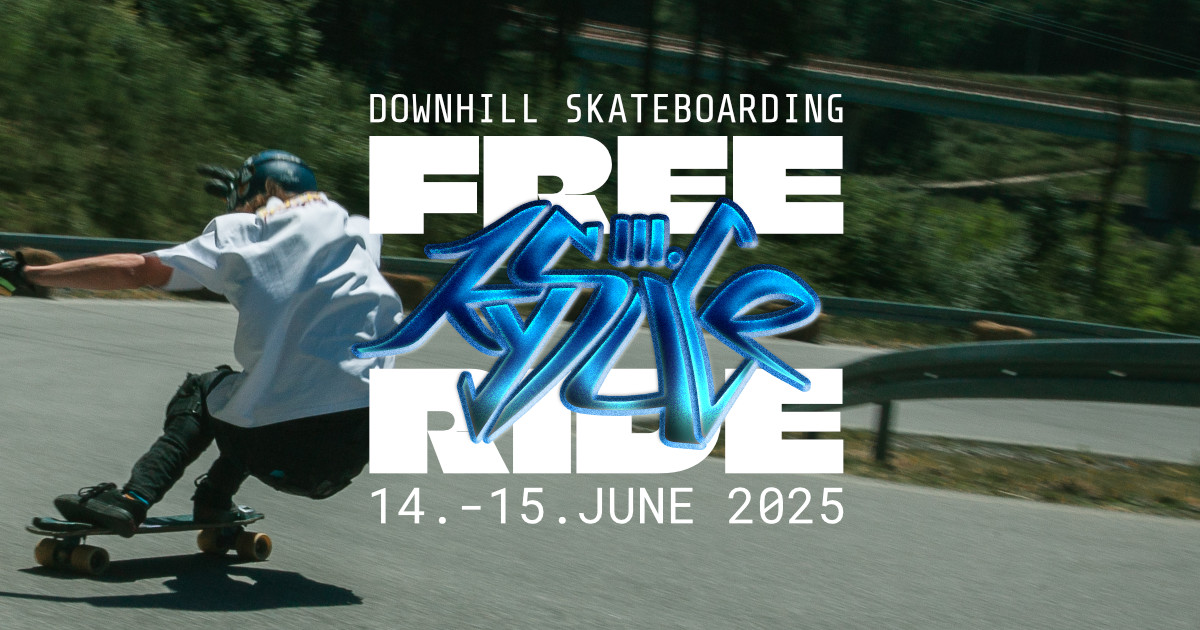
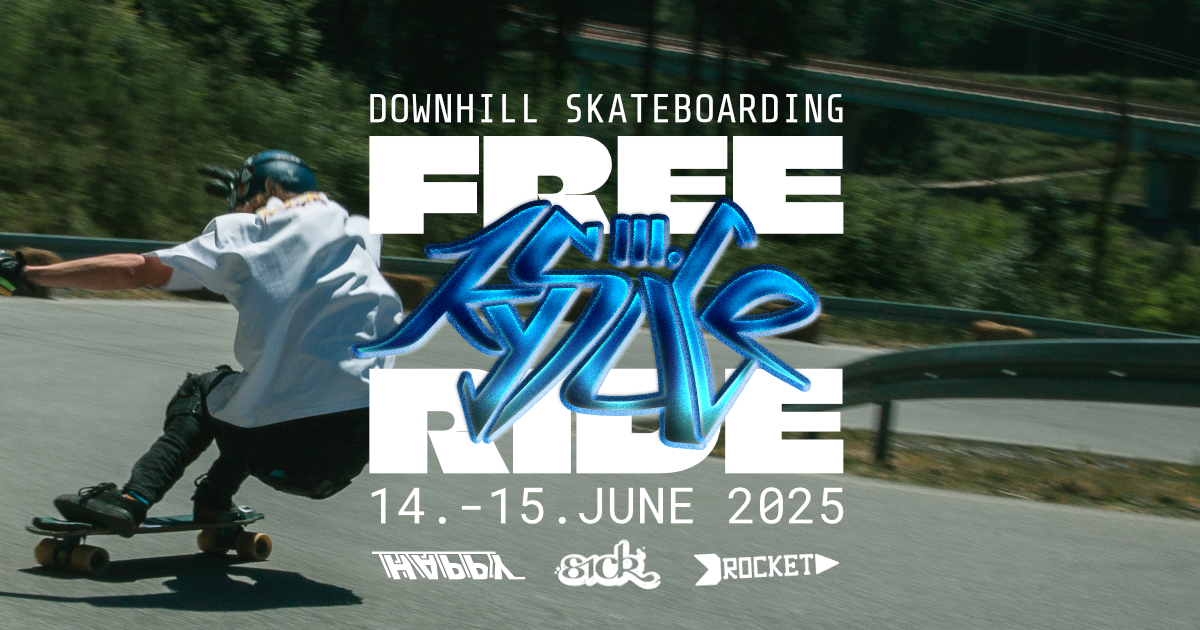
feat: added sponsors and instagram link

Changed region(s): [[0.3083, 0.8746, 0.4317, 0.9349], [0.5858, 0.8746, 0.7092, 0.9349], [0.4625, 0.8444, 0.555, 0.9349]]

diff --git a/app/page.tsx b/app/page.tsx
@@ -17,7 +17,9 @@ interface Dictionary {
     rider: string;
     photoBy: string;
   },
-  info: string
+  info: string;
+  follow: string;
+  sponsors: string;
 }
 
 const dictionaries = {
@@ -89,11 +91,50 @@ export default function Home() {
               className={styles.heroSideImage}
             />
           </div>
-          <div className={styles.heroText}>
+          <div className={`${styles.heroText} ${styles.uniformWidth} ${styles.text1}`}>
             <div>{dictionary.date}</div>
             <div>{dictionary.location.village}</div>
             <div>{dictionary.location.country}</div>
-            <div>{'_'}{dictionary.info}</div>
+            <div className={styles.text2}>{'_'}{dictionary.info}</div>
+            <div className={styles.text2}>{'_'}{dictionary.follow}{`: `}
+              <Link href="https://www.instagram.com/kysucedownhill/" target="_blank" className={styles.riderLink}>instagram</Link>
+            </div>
+          </div>
+        </div>
+        <div className={`${styles.sponsorsContainer}`}>
+          <div className={`${styles.sponsorsText} ${styles.uniformWidth} ${styles.text2}`}>
+            {`_`}
+            {dictionary.sponsors}
+            {`:`}
+          </div>
+          <div className={`${styles.sponsorsImageContainer} ${styles.uniformWidth}`}>
+            <Link href="https://www.instagram.com/happy_board_co/" target="_blank">
+              <Image
+                src="/sponsor-happy.png"
+                alt="Sponsor Happy Board co."
+                width={510}
+                height={168}
+                className={styles.sponsorsImage}
+              />
+            </Link>
+            <Link href="https://rocketlongboards.ch/" target="_blank">
+              <Image
+                src="/sponsor-rocket.png"
+                alt="Sponsor Rocket Longboards"
+                width={510}
+                height={168}
+                className={styles.sponsorsImage}
+              />
+            </Link>
+            <Link href="https://www.sickboards.nl/" target="_blank">
+              <Image
+                src="/sponsor-sick.png"
+                alt="Sponsor Sick Boards"
+                width={510}
+                height={168}
+                className={styles.sponsorsImage}
+              />
+            </Link>
           </div>
         </div>
         <div className={styles.riderImageContainer}>

diff --git a/app/page.module.css b/app/page.module.css
@@ -1,7 +1,46 @@
 /* Base styles */
+
+.text1 {
+  font-size: 3rem;
+}
+
+.text2 {
+  font-size: 2rem;
+}
+
 .container {
   position: relative;
   /* min-height: 100vh; */
+}
+
+.uniformWidth {
+  /* Using this to accurately align the text under the FREERIDE logo */
+  width: calc(650px * 810/650);
+}
+
+.sponsorsContainer {
+  display: flex;
+  flex-direction: column;
+  align-items: center;
+  margin-bottom: 1rem;
+}
+
+.sponsorsText {
+  font-size: 2rem;
+}
+
+.sponsorsImageContainer {
+  display: grid;
+  grid-template-columns: repeat(3, 1fr);
+  grid-template-rows: 70px;
+  gap: 1rem;
+}
+
+.sponsorsImage {
+  max-height: 100%;
+  max-width: 100%;
+  aspect-ratio: 510/168;
+  object-fit: contain;
 }
 
 .heroContainer {
@@ -75,14 +114,16 @@
   /* Using this to accurately align the text under the FREERIDE logo */
   width: calc(650px * 810/650);
   font-size: 3rem;
-  margin-bottom: 2rem;
+  margin-bottom: 1rem;
 }
+
 /* Tablet Breakpoint */
 @media screen and (max-width: 1024px) {
   .heroSection {
     height: 500px;
   }
-  .heroText {
+
+  .uniformWidth {
     width: calc(500px * 810/650);
   }
 }
@@ -92,12 +133,26 @@
   .heroSection {
     height: 350px;
   }
-  .heroText {
-    width: calc(350px * 810/650);
+
+  .text1 {
     font-size: 2rem;
   }
+
+  .text2 {
+    font-size: 1.5rem;
+  }
+
+  .uniformWidth {
+    width: calc(350px * 810/650);
+  }
+
   .riderTextContent {
     font-size: .5rem;
+  }
+
+  .sponsorsImageContainer {
+    grid-template-columns: repeat(2, 1fr);
+    grid-template-rows: 70px 70px;
   }
 }
 
@@ -105,8 +160,18 @@
   .heroSection {
     height: 280px;
   }
-  .heroText {
+
+  .uniformWidth {
     width: calc(280px * 810/650);
+  }
+
+  .text2 {
+    font-size: 1rem;
+  }
+
+  .sponsorsImageContainer {
+    grid-template-rows: 50px 50px;
+    gap: .5rem;
   }
 }
 
@@ -114,10 +179,15 @@
   .heroSection {
     height: 200px;
   }
-  .heroText {
-    width: calc(200px * 810/650);
+
+  .text1 {
     font-size: 1rem;
   }
+
+  .uniformWidth {
+    width: calc(200px * 810/650);
+  }
+
   .riderTextContent {
     font-size: .3rem;
   }
